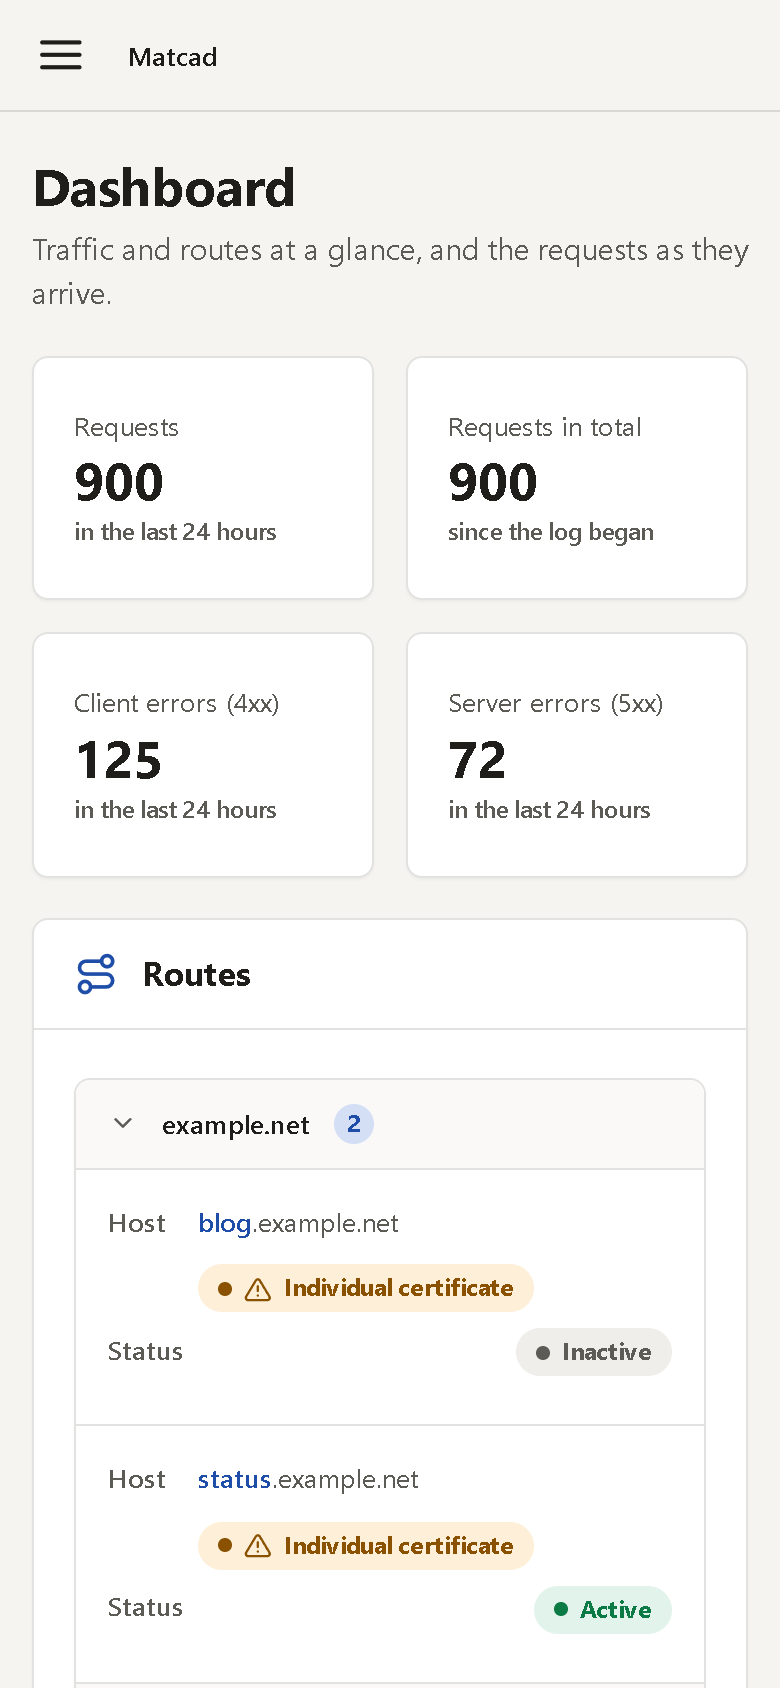
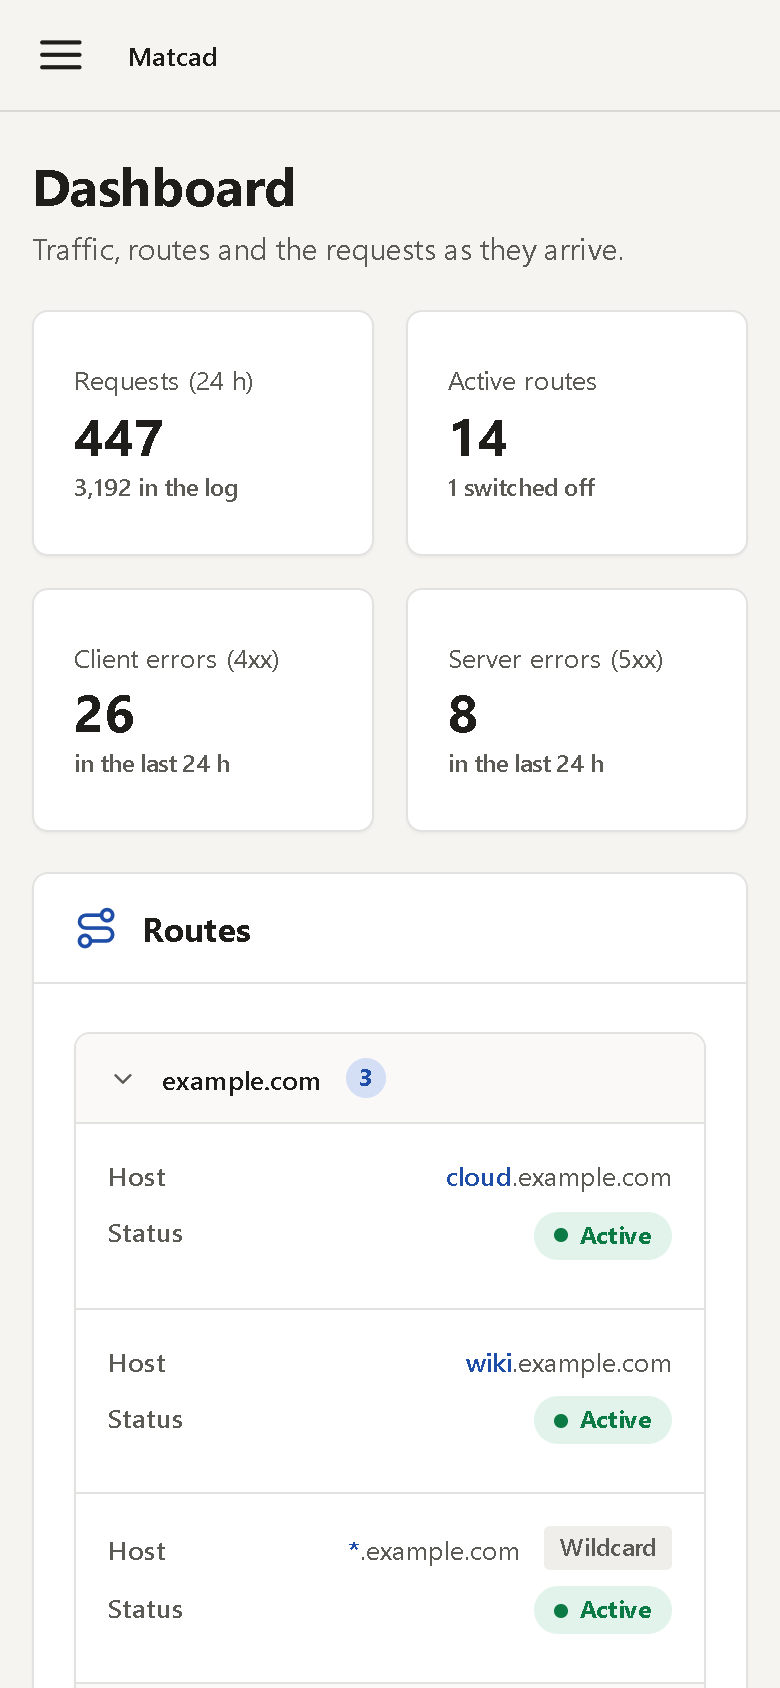
README screenshots refreshed on a demo installation (invented domains and traffic): new ones for certificates, route options, access and guards, and the audit log; the unused ones removed

diff --git a/README.md b/README.md
@@ -12,7 +12,7 @@ no config files to hand-edit. Installable as an app on your phone and desktop.
 
 </div>
 
-![Dashboard with the route tree, certificate badges and the live request log](docs/images/dashboard.png)
+![The dashboard: requests, errors and active routes of the last 24 hours above the route tree](docs/images/dashboard.png)
 
 ---
 
@@ -96,22 +96,48 @@ lose the YAML-in-your-head part.
 
 ## Screenshots
 
+All screenshots show a demo installation with invented domains, upstreams and traffic.
+
 ### Routes and the certificate picture
 
-![The routes list grouped by domain with certificate badges](docs/images/routes.png)
+![The routes list grouped by domain with certificate badges, guards and upstream health](docs/images/routes.png)
 
-Routes are grouped by domain. Each one shows its target and, at a glance, whether
-its certificate is a wildcard, covered by one, individual, or Caddy-internal.
+Routes are grouped by domain. Each one shows its target (a redirect with its code, more upstreams as "+1" with
+"2/2 healthy" from the health check), the authentication, a "Guarded" tag when IP lists or a required header are set,
+and at a glance whether its certificate is a wildcard, covered by one, individual, or Caddy-internal.
+
+### Certificates
+
+![The certificates page: wildcard and individual certificates with expiry and state](docs/images/certificates.png)
+
+Every certificate Caddy manages for the active routes: the wildcard ones with the hosts they cover and their DNS
+provider, the individual ones with the HTTP challenge. Matcad asks Caddy for each one every six hours (or on *Check now*)
+and shows when it expires; one that runs out within 14 days or has a problem comes first.
 
 ### Creating a route
 
-![The route editor with type, target and DNS provider](docs/images/route-edit.png)
+![The route editor: single domain or wildcard, host, name and DNS provider](docs/images/route-edit.png)
 
 Single host or wildcard, reverse proxy or redirect. Pick "Wildcard" and the host
-becomes `*.your-domain`; enter a bare domain that no wildcard covers and Matcad
+becomes `*.your-domain` with the DNS provider for its certificate; enter a bare domain that no wildcard covers and Matcad
 warns you it would get its own certificate.
 
-### Guards and upstream headers
+### Route options: load balancing, health checks and locations
+
+![The target of a route with a second upstream, round robin, a health check, compression and two locations](docs/images/route-options.png)
+
+More upstreams with round robin, least connections or first available, an active health check (path, interval, expected
+status), compression, embedding in a frame, and locations: paths such as `/api` with their own upstream (optionally
+stripping the path) or a redirect. A redirect route can keep the path and answers 301, 302, 307 or 308.
+
+### Access, response headers and guards
+
+![Access, response headers and guards of a route: basic auth, exploit filter, HSTS, Cache-Control, IP lists, a required header and headers to the upstream](docs/images/route-access.png)
+
+An authentication per route, a filter for common exploits, HSTS, response headers to set or remove (over what the
+upstream sends), and the guards described below.
+
+### Guards and upstream headers in detail
 
 A route can be closed to everything but one other proxy, for example an *edge* Matcad that forwards a customer domain to the
 system address of a site on another server, whose Matcad only takes requests from the edge:
@@ -137,23 +163,29 @@ know and would leave the route open. `GET /api/v1/routes/{id}` returns one edita
 
 ### Statistics
 
-![The statistics page with filters, charts and top lists](docs/images/statistics.png)
+![The statistics page: requests, error rate, duration, traffic per hour, status codes and the top hosts, paths and clients](docs/images/statistics.png)
 
 Filter by time range, host, status class, method or path, then read traffic over
 time, the status-code split and the top hosts, paths and client IPs.
 
 ### The login portal, branded per authentication
 
-![The authentication branding editor with a live login preview](docs/images/auth-branding.png)
+![The login page of an authentication: title, welcome text, accent colour and logo with a live preview](docs/images/auth-branding.png)
 
 A Matcad authentication shows a real login page you brand per domain: title,
 accent colour, logo, welcome text and logo placement, with a live preview.
+
+### Audit log
+
+![The audit log: who created or changed which route, authentication or DNS provider](docs/images/audit-log.png)
+
+Who changed what, on the pages or through the API: names only, never a secret, kept for a year.
 
 ### First-run setup
 
 | Setup wizard | Providers |
 |---|---|
-| ![The setup wizard](docs/images/setup-wizard.png) | ![The DNS providers list](docs/images/providers.png) |
+| ![The setup wizard at the step for domains and login](docs/images/setup-wizard.png) | ![The DNS providers list](docs/images/providers.png) |
 
 A fresh install starts empty and walks you through account, domains, an optional
 DNS provider and done. You can skip it and set things up later.
@@ -162,10 +194,10 @@ DNS provider and done. You can skip it and set things up later.
 
 | Dashboard | Menu | Editing a route |
 |---|---|---|
-| ![The dashboard on a phone](docs/images/mobile-dashboard.png) | ![The menu on a phone](docs/images/mobile-menu.png) | ![The route editor on a phone](docs/images/mobile-route-edit.png) |
+| ![The dashboard on a phone: figures as tiles, the routes as cards](docs/images/mobile-dashboard.png) | ![The menu as a drawer on a phone](docs/images/mobile-menu.png) | ![The route editor on a phone](docs/images/mobile-route-edit.png) |
 
-The same interface scales down to a phone: a drawer menu, secondary table columns
-fold away, and the app respects the notch and the home indicator once installed.
+The same interface scales down to a phone: a drawer menu, table rows
+become cards, and the app respects the notch and the home indicator once installed.
 
 ## Quick start
 
